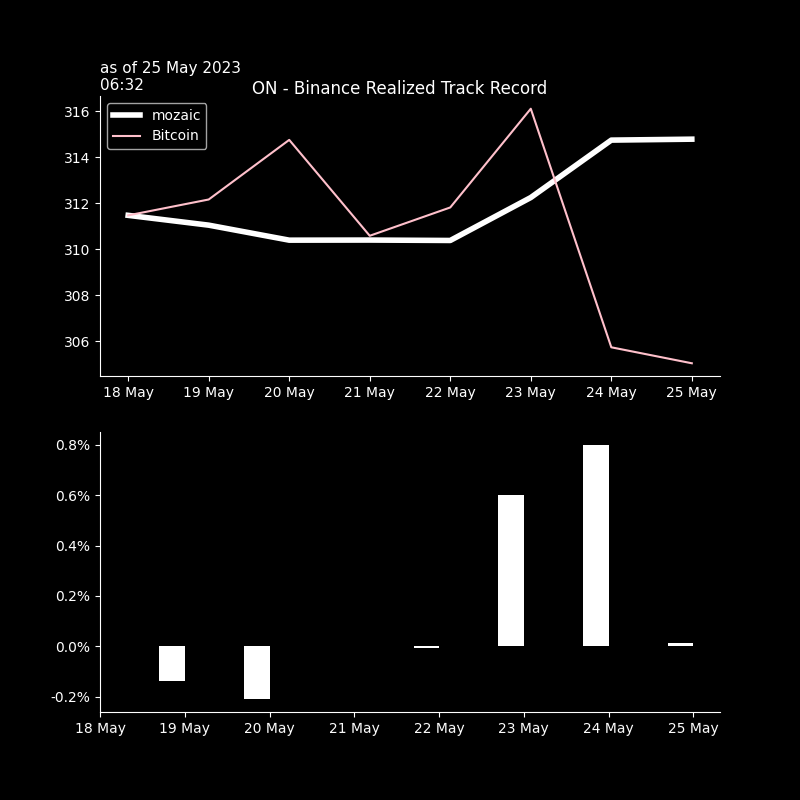
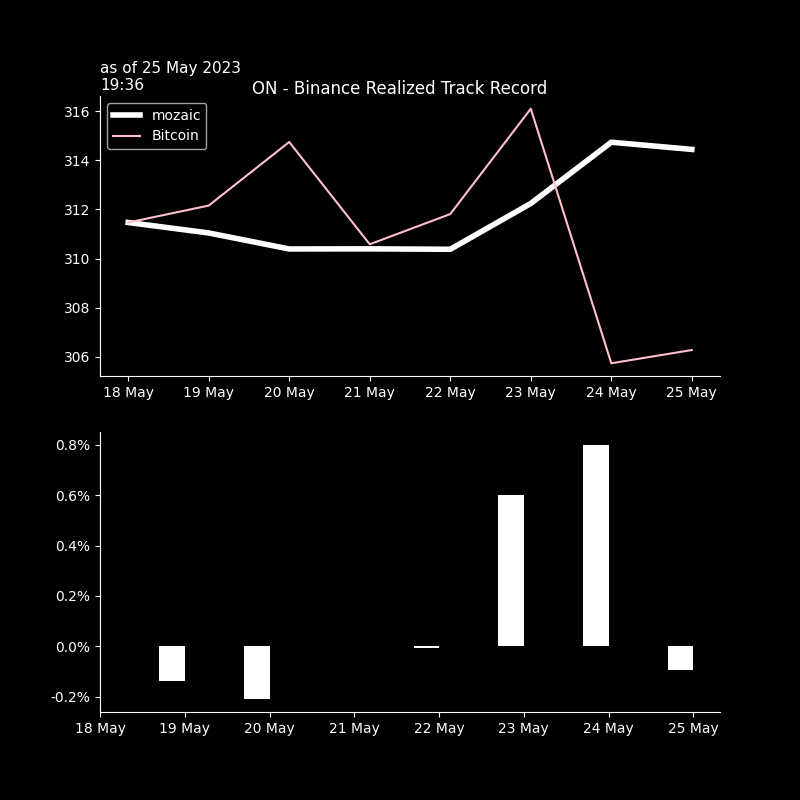
seb_commit

diff --git a/crypto/graphs/bt_trades_book.htmltrade_trades_book.html b/crypto/graphs/bt_trades_book.htmltrade_trades_book.html
@@ -37,38 +37,55 @@
   </thead>
   <tbody>
     <tr>
-      <th>BTCUSDT</th>
-      <td>26251.7000</td>
-      <td>2023-05-25 05:29:05</td>
-      <td>0.001</td>
-      <td>$26.3</td>
-      <td>$0.01</td>
+      <th>ETHUSDT</th>
+      <td>1806.3000</td>
+      <td>2023-05-25 18:35:03</td>
+      <td>0.087</td>
+      <td>$157.1</td>
+      <td>$0.03</td>
       <td>2.0</td>
+      <td>0.0</td>
+      <td>1804.51500</td>
+      <td>2023-05-25 19:32</td>
       <td>-0.2</td>
-      <td>26251.35000</td>
-      <td>2023-05-25 06:26</td>
-      <td>-0.0</td>
-      <td>-0.0</td>
-      <td>26251.8</td>
-      <td>0.0</td>
-      <td>0.0</td>
+      <td>-10.0</td>
+      <td>1804.84</td>
+      <td>-0.1</td>
+      <td>-8.0</td>
     </tr>
     <tr>
       <th>XRPUSDT</th>
-      <td>0.4533</td>
-      <td>2023-05-25 05:27:46</td>
-      <td>85.900</td>
-      <td>$38.9</td>
-      <td>$0.01</td>
+      <td>0.4488</td>
+      <td>2023-05-25 18:36:00</td>
+      <td>351.000</td>
+      <td>$157.5</td>
+      <td>$0.03</td>
       <td>2.0</td>
-      <td>-0.2</td>
-      <td>0.45345</td>
-      <td>2023-05-25 06:26</td>
       <td>0.0</td>
-      <td>3.0</td>
-      <td>.4533</td>
+      <td>0.44845</td>
+      <td>2023-05-25 19:32</td>
+      <td>-0.1</td>
+      <td>-8.0</td>
+      <td>.4487</td>
       <td>-0.0</td>
-      <td>-0.0</td>
+      <td>-3.0</td>
+    </tr>
+    <tr>
+      <th>BTCUSDT</th>
+      <td>26376.7000</td>
+      <td>2023-05-25 18:35:03</td>
+      <td>0.006</td>
+      <td>$158.3</td>
+      <td>$0.03</td>
+      <td>2.0</td>
+      <td>0.0</td>
+      <td>26366.35000</td>
+      <td>2023-05-25 19:32</td>
+      <td>-0.1</td>
+      <td>-4.0</td>
+      <td>26353.1</td>
+      <td>-0.1</td>
+      <td>-9.0</td>
     </tr>
   </tbody>
 </table>

diff --git a/crypto/graphs/bt_trades_recap.htmltrade_trades_recap.html b/crypto/graphs/bt_trades_recap.htmltrade_trades_recap.html
@@ -9,23 +9,23 @@
   <tbody>
     <tr>
       <th>as of</th>
-      <td>25May 05:27&gt;&gt;05:29</td>
-      <td>#trades: 2</td>
+      <td>25May 18:35&gt;&gt;18:36</td>
+      <td>#trades: 3</td>
     </tr>
     <tr>
       <th>trade net</th>
-      <td>+65.0</td>
-      <td>+20.6%</td>
+      <td>+473.0</td>
+      <td>+150.3%</td>
     </tr>
     <tr>
       <th>trade gross</th>
-      <td>+65.0</td>
-      <td>+20.6%</td>
+      <td>+473.0</td>
+      <td>+150.3%</td>
     </tr>
     <tr>
       <th>BUY</th>
-      <td>+65.0</td>
-      <td>+20.6%</td>
+      <td>+473.0</td>
+      <td>+150.3%</td>
     </tr>
     <tr>
       <th>SELL</th>
@@ -34,7 +34,7 @@
     </tr>
     <tr>
       <th>fees</th>
-      <td>$ 0.013</td>
+      <td>$ 0.095</td>
       <td>2.0bp</td>
     </tr>
   </tbody>

diff --git a/crypto/graphs/bt_trades_pnlD_recap.htmltrade_trades_pnlD_recap.html b/crypto/graphs/bt_trades_pnlD_recap.htmltrade_trades_pnlD_recap.html
@@ -1,7 +1,7 @@
 <table border="1" class="dataframe">
   <thead>
     <tr style="text-align: right;">
-      <th>25 May 06:29</th>
+      <th>25 May 19:36</th>
       <th>realizedPnl</th>
       <th>PnLvsArrival</th>
       <th>PnLvsLast</th>
@@ -10,21 +10,21 @@
   <tbody>
     <tr>
       <th>in$</th>
+      <td>0.0</td>
       <td>-0.3</td>
-      <td>0.0</td>
-      <td>0.0</td>
+      <td>-0.3</td>
     </tr>
     <tr>
-      <th>in bp 65 traded</th>
-      <td>-52 bp</td>
-      <td>2 bp</td>
+      <th>in bp 472 traded</th>
       <td>0 bp</td>
+      <td>-7 bp</td>
+      <td>-7 bp</td>
     </tr>
     <tr>
       <th>in bp 314 AUMs</th>
+      <td>0 bp</td>
       <td>-11 bp</td>
-      <td>0 bp</td>
-      <td>0 bp</td>
+      <td>-10 bp</td>
     </tr>
   </tbody>
 </table>
